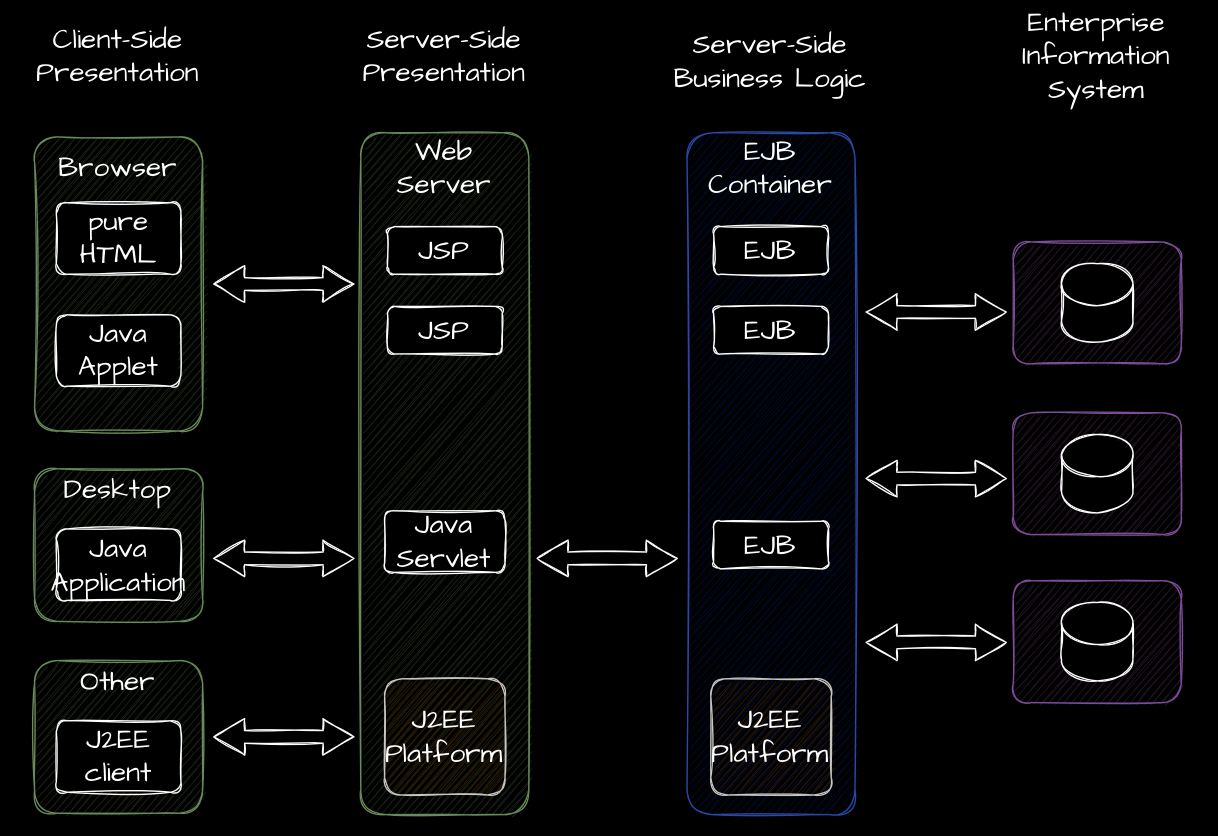
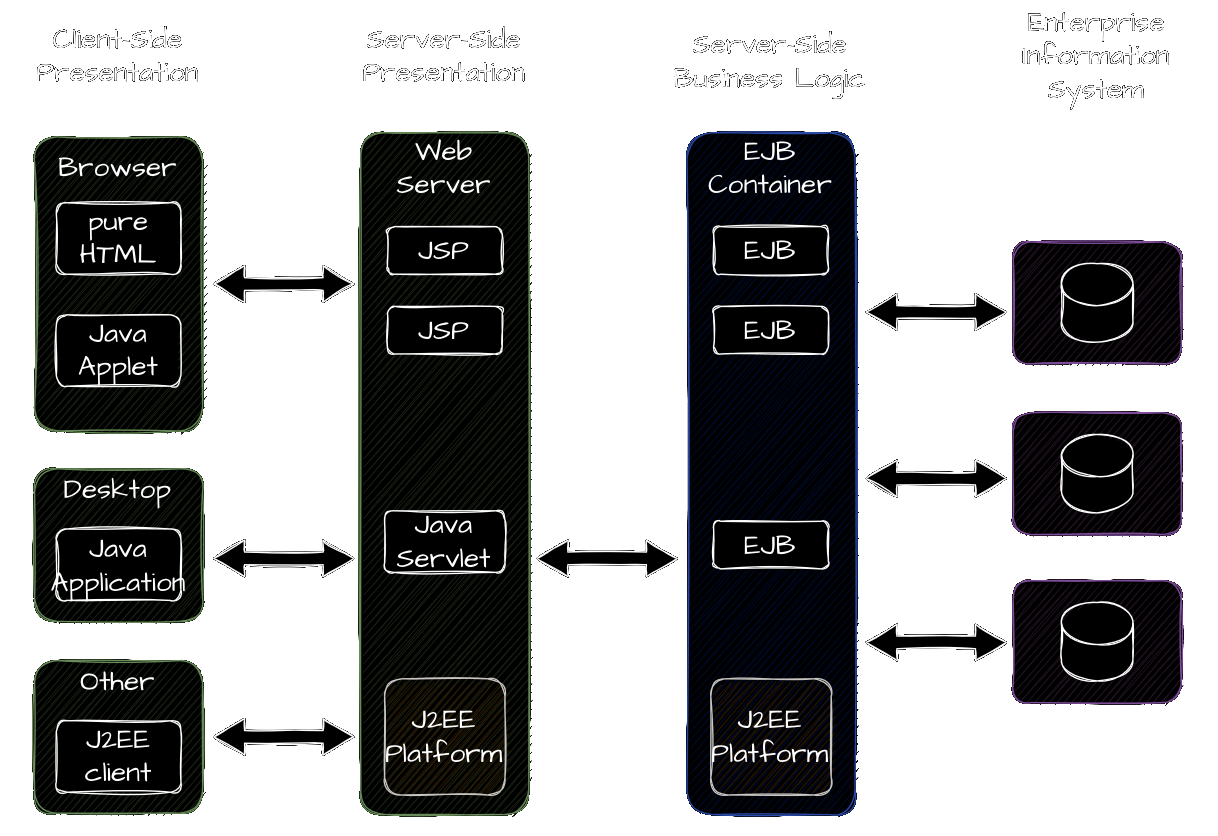
fix 2

diff --git a/README.md b/README.md
@@ -160,7 +160,7 @@ Le soluzioni attuali come scritto anche in precedenza, si spostano verso questo 
     - **Server-side presentation**: si occupa della logica di presentazione, fa uso delle JSP (Java Server Pages) e/o delle Servlet.
     - **Server-side business logic**: si occupa della logica applicativa, cioè al suo interno ci sono i componenti.
 
-![Multi Tier-Light](./img/img10.png#gh-light-mode-only)
+![Multi Tier-Light](./img/img10-light.png#gh-light-mode-only)
 ![Multi Tier-Dark](./img/img10-dark.png#gh-dark-mode-only)
 
 Una delle tecnologie che fa uso di componenti è EJB. Nei prossimi capitoli verrà approfondita.
